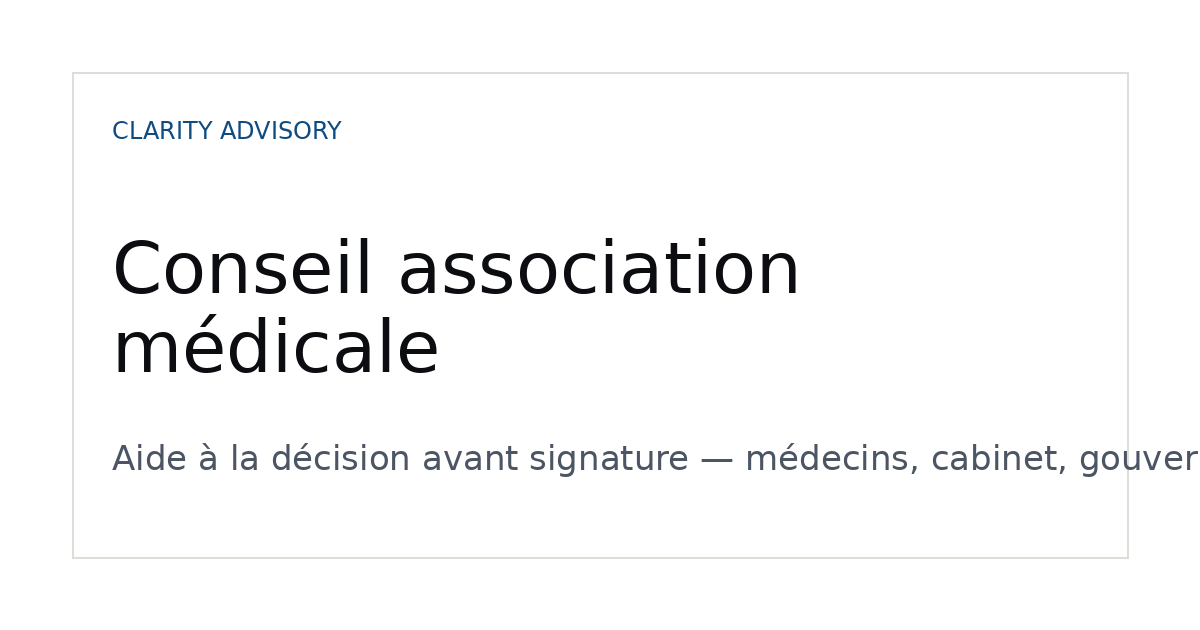
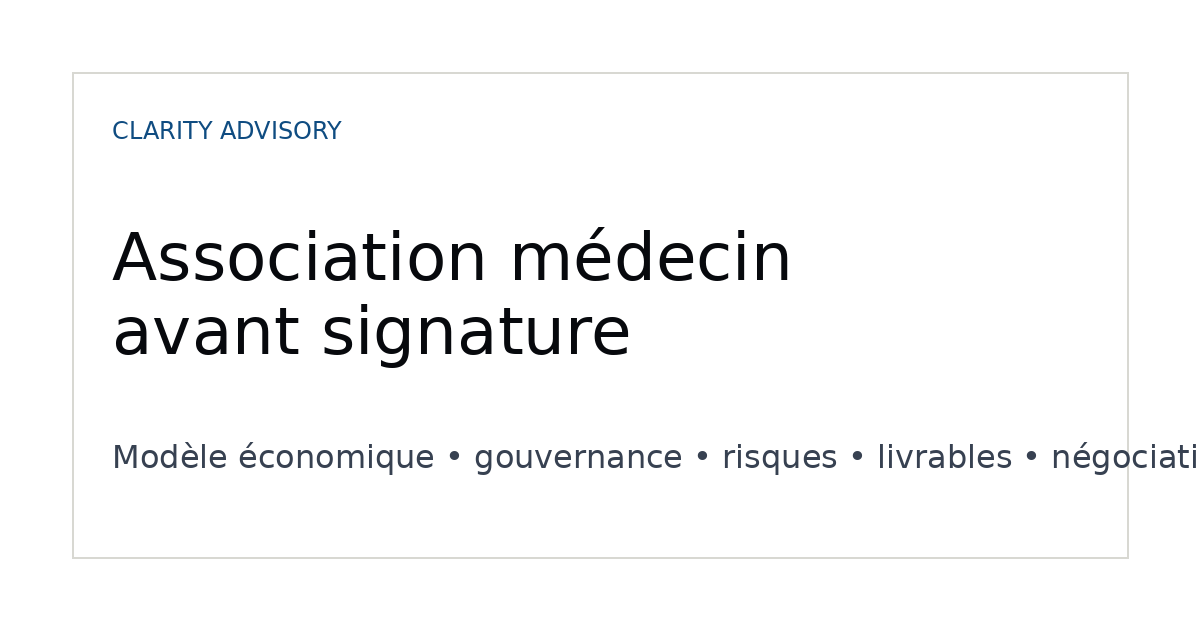
feat: clarify medical association landing page

Changed region(s): [[0.0925, 0.3619, 0.6783, 0.6032], [0.0925, 0.6937, 1.0, 0.754]]

diff --git a/index.html b/index.html
@@ -3,9 +3,9 @@
 <head>
   <meta charset="UTF-8" />
   <meta name="viewport" content="width=device-width, initial-scale=1.0" />
-  <title>Conseil association médicale | Clarity Advisory</title>
-  <meta name="description" content="Clarity Advisory aide les médecins à analyser un projet d’association médicale avant signature : modèle économique, gouvernance, rémunération, risques, négociation et questions à poser aux conseils habilités." />
-  <meta name="keywords" content="conseil association médicale, association médecin, cabinet médical association, SEL médecin, SCM médecin, SPFPL médecin, analyse cabinet médical, gouvernance cabinet médical, négociation association médicale, due diligence médicale, aide décision médecin" />
+  <title>Association médecin : conseil avant signature | Clarity Advisory</title>
+  <meta name="description" content="Conseil indépendant pour médecins avant association en cabinet, SEL, SCM ou SPFPL. Analyse du modèle économique, gouvernance, rémunération, risques, livrables clairs et préparation des négociations." />
+  <meta name="keywords" content="association médecin, conseil association médicale, médecin associé, cabinet médical association, SEL médecin, SCM médecin, SPFPL médecin, pacte associés médecins, gouvernance cabinet médical, rémunération médecin associé, due diligence cabinet médical, aide décision médecin" />
   <meta name="robots" content="index, follow, max-image-preview:large" />
   <meta name="googlebot" content="index, follow" />
   <meta name="referrer" content="strict-origin-when-cross-origin" />
@@ -21,102 +21,54 @@
   <meta property="og:locale" content="fr_FR" />
   <meta property="og:site_name" content="Clarity Advisory" />
   <meta property="og:url" content="https://clarity-advisory-site.vercel.app/" />
-  <meta property="og:title" content="Conseil association médicale | Clarity Advisory" />
-  <meta property="og:description" content="Analyse indépendante pour médecins avant association : modèle économique, gouvernance, rémunération, risques et préparation de négociation." />
-  <meta property="og:image" content="https://clarity-advisory-site.vercel.app/og-image.png?v=2" />
+  <meta property="og:title" content="Association médecin : conseil avant signature | Clarity Advisory" />
+  <meta property="og:description" content="Pour médecins : analyse indépendante avant association en cabinet, SEL, SCM ou SPFPL. Modèle économique, gouvernance, risques, livrables et négociation." />
+  <meta property="og:image" content="https://clarity-advisory-site.vercel.app/og-image.png?v=3" />
   <meta property="og:image:width" content="1200" />
   <meta property="og:image:height" content="630" />
-  <meta property="og:image:alt" content="Clarity Advisory — Conseil association médicale" />
+  <meta property="og:image:alt" content="Clarity Advisory — Association médecin avant signature" />
   <meta name="twitter:card" content="summary_large_image" />
-  <meta name="twitter:title" content="Conseil association médicale | Clarity Advisory" />
-  <meta name="twitter:description" content="Aide à la décision pour médecins avant signature d’un projet d’association médicale." />
-  <meta name="twitter:image" content="https://clarity-advisory-site.vercel.app/og-image.png?v=2" />
-  <meta name="twitter:image:alt" content="Clarity Advisory — Conseil association médicale" />
-  <meta name="geo.region" content="FR" />
-  <meta name="geo.placename" content="France" />
+  <meta name="twitter:title" content="Association médecin : conseil avant signature | Clarity Advisory" />
+  <meta name="twitter:description" content="Aide à la décision pour médecins avant association : économie, gouvernance, risques, livrables et négociation." />
+  <meta name="twitter:image" content="https://clarity-advisory-site.vercel.app/og-image.png?v=3" />
+  <meta name="twitter:image:alt" content="Clarity Advisory — Association médecin avant signature" />
   <link rel="preconnect" href="https://fonts.googleapis.com" />
   <link rel="preconnect" href="https://fonts.gstatic.com" crossorigin />
   <link href="https://fonts.googleapis.com/css2?family=DM+Sans:opsz,wght@9..40,300..900&display=swap" rel="stylesheet" />
-  <script type="application/ld+json">{
-    "@context":"https://schema.org",
-    "@type":"Organization",
-    "name":"Clarity Advisory",
-    "legalName":"THELI SASU",
-    "url":"https://clarity-advisory-site.vercel.app/",
-    "logo":"https://clarity-advisory-site.vercel.app/og-image.png?v=2",
-    "description":"Conseil stratégique et aide à la décision pour médecins avant association médicale.",
-    "knowsAbout":["Association médicale","Cabinet médical","Gouvernance médicale","Analyse économique","Négociation entre associés","SEL","SCM","SPFPL"],
-    "foundingLocation":{"@type":"Country","name":"France"}
-  }</script>
-  <script type="application/ld+json">{
-    "@context":"https://schema.org",
-    "@type":"WebSite",
-    "name":"Clarity Advisory",
-    "url":"https://clarity-advisory-site.vercel.app/",
-    "inLanguage":"fr-FR",
-    "publisher":{"@type":"Organization","name":"Clarity Advisory","url":"https://clarity-advisory-site.vercel.app/"}
-  }</script>
-  <script type="application/ld+json">{
-    "@context":"https://schema.org",
-    "@type":"ProfessionalService",
-    "name":"Clarity Advisory",
-    "url":"https://clarity-advisory-site.vercel.app/",
-    "image":"https://clarity-advisory-site.vercel.app/og-image.png?v=2",
-    "areaServed":"France",
-    "serviceType":["Conseil association médicale","Analyse économique de cabinet médical","Préparation de négociation entre associés","Aide à la décision pour médecin"],
-    "provider":{"@type":"Organization","name":"THELI SASU"},
-    "description":"Analyse stratégique, économique et opérationnelle de projets d’association médicale avant signature.",
-    "hasOfferCatalog":{"@type":"OfferCatalog","name":"Missions Clarity Advisory","itemListElement":[
-      {"@type":"Offer","itemOffered":{"@type":"Service","name":"Analyse de projet d’association médicale","description":"Analyse indépendante du modèle économique, de la gouvernance, de la rémunération et des risques avant signature."}},
-      {"@type":"Offer","itemOffered":{"@type":"Service","name":"Préparation de négociation entre futurs associés","description":"Identification des points à discuter, clarifier ou sécuriser avec les conseils habilités."}}
-    ]}
-  }</script>
-  <script type="application/ld+json">{
-    "@context":"https://schema.org",
-    "@type":"FAQPage",
-    "mainEntity":[
-      {"@type":"Question","name":"Clarity Advisory conseille-t-il uniquement les médecins ?","acceptedAnswer":{"@type":"Answer","text":"Oui. Cette offre est orientée vers les médecins qui envisagent une association en cabinet, clinique, centre de soins ou structure pluridisciplinaire."}},
-      {"@type":"Question","name":"Clarity Advisory fournit-il du conseil juridique, fiscal, comptable ou médical ?","acceptedAnswer":{"@type":"Answer","text":"Non. Clarity Advisory intervient uniquement sur les dimensions stratégiques, économiques et opérationnelles. Les sujets juridiques, fiscaux, comptables ou médicaux doivent être validés par les professionnels habilités."}},
-      {"@type":"Question","name":"Quand solliciter Clarity Advisory ?","acceptedAnswer":{"@type":"Answer","text":"Idéalement avant toute signature, dès que les premiers documents, chiffres ou conditions d’association sont disponibles."}}
-    ]
-  }</script>
+  <script type="application/ld+json">{"@context":"https://schema.org","@type":"Organization","name":"Clarity Advisory","legalName":"THELI SASU","url":"https://clarity-advisory-site.vercel.app/","logo":"https://clarity-advisory-site.vercel.app/og-image.png?v=3","description":"Conseil indépendant pour médecins avant association médicale.","knowsAbout":["Association médecin","Association médicale","Cabinet médical","SEL médecin","SCM médecin","SPFPL médecin","Gouvernance médicale","Analyse économique","Négociation entre associés"]}</script>
+  <script type="application/ld+json">{"@context":"https://schema.org","@type":"WebSite","name":"Clarity Advisory","url":"https://clarity-advisory-site.vercel.app/","inLanguage":"fr-FR","publisher":{"@type":"Organization","name":"Clarity Advisory","url":"https://clarity-advisory-site.vercel.app/"}}</script>
+  <script type="application/ld+json">{"@context":"https://schema.org","@type":"ProfessionalService","name":"Clarity Advisory","url":"https://clarity-advisory-site.vercel.app/","image":"https://clarity-advisory-site.vercel.app/og-image.png?v=3","areaServed":"France","serviceType":["Conseil association médecin","Analyse économique de cabinet médical","Préparation de négociation entre associés médecins","Aide à la décision pour médecin"],"provider":{"@type":"Organization","name":"THELI SASU"},"description":"Analyse stratégique, économique et opérationnelle de projets d’association pour médecins avant signature.","hasOfferCatalog":{"@type":"OfferCatalog","name":"Livrables Clarity Advisory","itemListElement":[{"@type":"Offer","itemOffered":{"@type":"Service","name":"Note de décision avant association médicale","description":"Synthèse claire, risques, questions à poser et recommandation finale avant signature."}},{"@type":"Offer","itemOffered":{"@type":"Service","name":"Préparation de négociation entre médecins associés","description":"Points économiques, gouvernance, rémunération, entrée progressive et clauses de sortie à clarifier."}}]}}</script>
+  <script type="application/ld+json">{"@context":"https://schema.org","@type":"FAQPage","mainEntity":[{"@type":"Question","name":"À qui s’adresse Clarity Advisory ?","acceptedAnswer":{"@type":"Answer","text":"Aux médecins qui envisagent une association en cabinet médical, SEL, SCM, SPFPL, clinique, centre de soins ou structure pluridisciplinaire."}},{"@type":"Question","name":"Quels livrables sont remis ?","acceptedAnswer":{"@type":"Answer","text":"Une note de synthèse, une cartographie des risques, les questions à poser aux conseils, des scénarios économiques, des points de négociation et une recommandation finale."}},{"@type":"Question","name":"Clarity Advisory fournit-il du conseil juridique, fiscal, comptable ou médical ?","acceptedAnswer":{"@type":"Answer","text":"Non. Clarity Advisory intervient uniquement sur les dimensions stratégiques, économiques et opérationnelles. Les sujets juridiques, fiscaux, comptables ou médicaux doivent être validés par les professionnels habilités."}}]}</script>
   <style>
-    :root{--ink:#0b0d10;--muted:#5f6673;--soft:#f7f7f5;--line:#deded8;--night:#07111f;--blue:#0f4c81;--max:1120px}
-    *{box-sizing:border-box} html{scroll-behavior:smooth} body{margin:0;font-family:'DM Sans',system-ui,-apple-system,Segoe UI,sans-serif;color:var(--ink);background:#fff;line-height:1.55;-webkit-font-smoothing:antialiased} a{color:inherit;text-decoration:none} .container{width:min(var(--max),calc(100% - 40px));margin:auto}
-    .nav{position:sticky;top:0;z-index:20;background:rgba(255,255,255,.92);backdrop-filter:blur(16px);border-bottom:1px solid var(--line)} .nav-inner{height:72px;display:flex;align-items:center;justify-content:space-between;gap:24px} .brand{font-weight:850;letter-spacing:-.03em} .brand span{display:block;font-size:12px;color:var(--muted);font-weight:700;letter-spacing:.08em;text-transform:uppercase;margin-top:2px} .links{display:flex;align-items:center;gap:26px;font-size:14px;font-weight:750;color:#30343a} .links a:hover{color:var(--blue)} .nav-cta{border:1px solid var(--ink);padding:10px 14px}
-    .hero{padding:116px 0 92px;border-bottom:1px solid var(--line)} .eyebrow{font-size:12px;text-transform:uppercase;letter-spacing:.18em;color:var(--blue);font-weight:900;margin-bottom:26px} h1{font-size:clamp(48px,8vw,104px);line-height:.95;letter-spacing:-.07em;font-weight:360;margin:0;max-width:950px} .hero p{font-size:clamp(19px,2.2vw,26px);line-height:1.45;color:#343b45;max-width:780px;margin:32px 0 0} .cta-row{display:flex;gap:12px;flex-wrap:wrap;margin-top:38px} .btn{display:inline-flex;align-items:center;justify-content:center;min-height:52px;padding:14px 20px;border:1px solid var(--ink);font-weight:850} .btn.primary{background:var(--ink);color:#fff} .btn:hover{background:var(--blue);border-color:var(--blue);color:#fff}
-    section{padding:86px 0;border-bottom:1px solid var(--line)} .section-head{display:grid;grid-template-columns:.72fr 1fr;gap:54px;align-items:start;margin-bottom:44px} h2{font-size:clamp(32px,4.5vw,56px);line-height:1.02;letter-spacing:-.055em;font-weight:420;margin:0} .lead,.problem p{font-size:20px;line-height:1.7;color:#3d4652;margin:0} .problem{max-width:920px}
-    .grid{display:grid;grid-template-columns:repeat(3,1fr);gap:0;border-top:1px solid var(--line);border-left:1px solid var(--line)} .item{padding:28px;min-height:190px;border-right:1px solid var(--line);border-bottom:1px solid var(--line)} .num{font-family:ui-monospace,SFMono-Regular,Menlo,monospace;color:var(--blue);font-size:12px;font-weight:900;letter-spacing:.1em} h3{font-size:21px;line-height:1.18;letter-spacing:-.025em;margin:28px 0 10px} .item p,.faq p{color:var(--muted);margin:0}
-    .list{display:grid;grid-template-columns:repeat(2,1fr);gap:0;border-top:1px solid var(--line);border-left:1px solid var(--line)} .list div{padding:22px 24px;border-right:1px solid var(--line);border-bottom:1px solid var(--line);font-weight:760}
-    .dark{background:var(--night);color:#fff;border:0} .dark .lead,.dark .item p,.dark p{color:#c9d3e2} .dark .grid,.dark .item{border-color:rgba(255,255,255,.16)} .dark .eyebrow{color:#9ab9dc}
-    .deliverables{grid-template-columns:repeat(2,1fr)} .role{display:grid;grid-template-columns:.55fr 1fr;gap:50px;align-items:start} .role p{font-size:20px;line-height:1.75;color:#cdd8e6;margin:0}
-    .about{display:grid;grid-template-columns:.72fr 1fr;gap:54px} .about p{font-size:20px;line-height:1.7;color:#3d4652;margin:0} .faq{display:grid;grid-template-columns:repeat(3,1fr);gap:1px;background:var(--line);border:1px solid var(--line)} .faq article{background:#fff;padding:28px;min-height:210px}
-    .contact{background:var(--soft)} .contact-box{display:grid;grid-template-columns:1fr .45fr;gap:52px;align-items:center} .contact p{font-size:21px;color:#3d4652;line-height:1.65;margin:22px 0 0} .note{font-size:13px!important;color:var(--muted)!important} footer{padding:34px 0;color:#5d6673} .footer-grid{display:flex;justify-content:space-between;gap:30px;font-size:14px} .footer-grid strong{color:var(--ink)}
-    @media(max-width:860px){.links a:not(.nav-cta){display:none} .section-head,.role,.about,.contact-box{grid-template-columns:1fr} .grid,.list,.deliverables,.faq{grid-template-columns:1fr 1fr} .hero{padding-top:86px} }
-    @media(max-width:560px){.container{width:min(var(--max),calc(100% - 28px))} .nav-cta{display:none} h1{font-size:48px} section{padding:66px 0} .grid,.list,.deliverables,.faq{grid-template-columns:1fr} .footer-grid{display:grid}}
+    :root{--ink:#07090d;--text:#111827;--muted:#374151;--soft:#f6f5f2;--line:#d8d8d2;--blue:#0f4c81;--blue-soft:#eef5fb;--green:#14532d;--max:1160px}
+    *{box-sizing:border-box} html{scroll-behavior:smooth} body{margin:0;font-family:'DM Sans',system-ui,-apple-system,Segoe UI,sans-serif;color:var(--text);background:#fff;line-height:1.6;-webkit-font-smoothing:antialiased} a{color:inherit;text-decoration:none} .container{width:min(var(--max),calc(100% - 40px));margin:auto}
+    .nav{position:sticky;top:0;z-index:20;background:rgba(255,255,255,.96);backdrop-filter:blur(14px);border-bottom:1px solid var(--line)} .nav-inner{height:72px;display:flex;align-items:center;justify-content:space-between;gap:24px} .brand{font-size:19px;font-weight:900;letter-spacing:-.035em;color:var(--ink)} .brand span{display:block;font-size:12px;color:var(--blue);font-weight:900;letter-spacing:.09em;text-transform:uppercase;margin-top:1px} .links{display:flex;align-items:center;gap:24px;font-size:14px;font-weight:800;color:#1f2937} .links a:hover{color:var(--blue)} .nav-cta{border:1px solid var(--ink);padding:10px 14px;background:#fff}
+    .hero{padding:94px 0 84px;border-bottom:1px solid var(--line);background:linear-gradient(180deg,#fff,#fbfaf7)} .hero-grid{display:grid;grid-template-columns:1.04fr .86fr;gap:56px;align-items:center} .eyebrow{font-size:12px;text-transform:uppercase;letter-spacing:.18em;color:var(--blue);font-weight:900;margin-bottom:22px} h1{font-size:clamp(46px,6.6vw,82px);line-height:.98;letter-spacing:-.065em;font-weight:420;margin:0;max-width:780px;color:var(--ink)} .hero p{font-size:clamp(20px,2.1vw,25px);line-height:1.45;color:#1f2937;max-width:760px;margin:28px 0 0} .hero-card{border:1px solid #c9d6e2;background:#fff;padding:34px;box-shadow:0 24px 80px rgba(15,76,129,.08)} .hero-card h2{font-size:28px;letter-spacing:-.04em;margin-bottom:18px} .hero-card ul{list-style:none;margin:0;padding:0;display:grid;gap:14px} .hero-card li{display:flex;gap:12px;font-weight:800;color:#111827} .hero-card li:before{content:'✓';color:var(--green);font-weight:900} .mini-note{margin-top:24px;padding-top:20px;border-top:1px solid var(--line);font-size:15px;color:var(--muted);font-weight:700}
+    .cta-row{display:flex;gap:12px;flex-wrap:wrap;margin-top:36px} .btn{display:inline-flex;align-items:center;justify-content:center;min-height:54px;padding:14px 20px;border:1px solid var(--ink);font-weight:900;background:#fff;color:var(--ink)} .btn.primary{background:var(--ink);color:#fff} .btn:hover{background:var(--blue);border-color:var(--blue);color:#fff}
+    section{padding:82px 0;border-bottom:1px solid var(--line)} .section-head{display:grid;grid-template-columns:.62fr 1fr;gap:52px;align-items:start;margin-bottom:42px} h2{font-size:clamp(32px,4.1vw,54px);line-height:1.04;letter-spacing:-.055em;font-weight:500;margin:0;color:var(--ink)} .lead,.problem p{font-size:21px;line-height:1.72;color:#1f2937;margin:0} .problem{max-width:960px}
+    .proof{display:grid;grid-template-columns:repeat(3,1fr);gap:14px;margin-top:34px} .proof div{background:var(--blue-soft);border:1px solid #d7e6f3;padding:18px;font-weight:900;color:#102a43}
+    .grid{display:grid;grid-template-columns:repeat(3,1fr);gap:0;border-top:1px solid var(--line);border-left:1px solid var(--line);background:#fff} .item{padding:30px;min-height:205px;border-right:1px solid var(--line);border-bottom:1px solid var(--line)} .num{font-family:ui-monospace,SFMono-Regular,Menlo,monospace;color:var(--blue);font-size:12px;font-weight:900;letter-spacing:.1em} h3{font-size:22px;line-height:1.2;letter-spacing:-.03em;margin:24px 0 10px;color:var(--ink)} .item p,.faq p{color:#374151;margin:0;font-size:16px;line-height:1.65}
+    .focus{background:var(--soft)} .list{display:grid;grid-template-columns:repeat(2,1fr);gap:0;border-top:1px solid var(--line);border-left:1px solid var(--line);background:#fff} .list div{padding:23px 24px;border-right:1px solid var(--line);border-bottom:1px solid var(--line);font-weight:850;color:#111827}
+    .deliverables .item{min-height:178px} .deliverables h3{margin-top:0} .deliverables .item:first-child{background:#07111f;color:#fff} .deliverables .item:first-child h3,.deliverables .item:first-child p{color:#fff}
+    .role{background:#07111f;color:#fff} .role .eyebrow{color:#9cc4ea} .role h2{color:#fff} .role-grid{display:grid;grid-template-columns:.58fr 1fr;gap:50px;align-items:start} .role p{font-size:21px;line-height:1.75;color:#eef4fb;margin:0}
+    .about{display:grid;grid-template-columns:.62fr 1fr;gap:52px} .about p{font-size:20px;line-height:1.72;color:#1f2937;margin:0} .faq{display:grid;grid-template-columns:repeat(3,1fr);gap:1px;background:var(--line);border:1px solid var(--line)} .faq article{background:#fff;padding:30px;min-height:210px}
+    .contact{background:var(--soft)} .contact-box{display:grid;grid-template-columns:1fr .45fr;gap:52px;align-items:center} .contact p{font-size:21px;color:#1f2937;line-height:1.65;margin:22px 0 0} .note{font-size:14px!important;color:#4b5563!important;font-weight:700} footer{padding:34px 0;color:#374151} .footer-grid{display:flex;justify-content:space-between;gap:30px;font-size:14px} .footer-grid strong{color:var(--ink)}
+    @media(max-width:900px){.hero-grid,.section-head,.role-grid,.about,.contact-box{grid-template-columns:1fr} .links a:not(.nav-cta){display:none} .grid,.list,.faq,.proof{grid-template-columns:1fr 1fr} .hero{padding-top:70px}}
+    @media(max-width:560px){.container{width:min(var(--max),calc(100% - 28px))} .nav-cta{display:none} h1{font-size:46px} section{padding:64px 0} .grid,.list,.faq,.proof{grid-template-columns:1fr} .hero-card{padding:24px} .footer-grid{display:grid}}
   </style>
 </head>
 <body>
-  <nav class="nav" aria-label="Navigation principale"><div class="container nav-inner"><a href="#top" class="brand">Clarity Advisory<span>Association médicale</span></a><div class="links"><a href="#approche">Approche</a><a href="#missions">Missions</a><a href="#livrables">Livrables</a><a href="#role">Notre rôle</a><a class="nav-cta" href="#contact">Planifier un échange</a></div></div></nav>
+  <nav class="nav" aria-label="Navigation principale"><div class="container nav-inner"><a href="#top" class="brand">Clarity Advisory<span>médecins & association</span></a><div class="links"><a href="#approche">Approche</a><a href="#livrables">Livrables</a><a href="#missions">Missions</a><a href="#role">Limites</a><a class="nav-cta" href="#contact">Planifier un échange</a></div></div></nav>
   <main id="top">
-    <header class="hero"><div class="container"><div class="eyebrow">Conseil association médicale</div><h1>Décidez avec clarté avant de vous associer.</h1><p>Clarity Advisory accompagne les médecins dans l’analyse d’un projet d’association : cabinet médical, groupe de praticiens, clinique, centre de soins ou structure pluridisciplinaire.</p><div class="cta-row"><a class="btn primary" href="#contact">Planifier un échange</a><a class="btn" href="#approche">Découvrir l’approche</a></div></div></header>
-    <section id="probleme"><div class="container"><div class="section-head"><div><div class="eyebrow">Problème</div><h2>Avant de signer, il faut comprendre.</h2></div><div class="problem"><p>S’associer dans un cabinet médical ou une structure de soins engage souvent plusieurs années de carrière, de revenus, de responsabilités et d’équilibre professionnel. La décision ne doit pas reposer uniquement sur une lecture juridique des documents : elle doit aussi intégrer le modèle économique, la gouvernance, l’organisation et les risques opérationnels.</p></div></div></div></section>
-    <section id="approche"><div class="container"><div class="section-head"><div><div class="eyebrow">Ce que nous faisons</div><h2>Un regard indépendant sur votre décision.</h2></div><p class="lead">Nous clarifions les enjeux concrets derrière un projet d’association médicale : revenus, charges, patientèle, gouvernance, rythme de travail, investissements du cabinet, clauses économiques et équilibre entre associés.</p></div><div class="grid">
-      <article class="item"><span class="num">01</span><h3>Analyse du projet d’association</h3><p>Évaluer l’intérêt réel de rejoindre ou de créer une association médicale, au-delà de la première impression.</p></article>
-      <article class="item"><span class="num">02</span><h3>Lecture stratégique du projet</h3><p>Lire statuts, pactes, propositions et données sous l’angle économique, organisationnel et de gouvernance.</p></article>
-      <article class="item"><span class="num">03</span><h3>Analyse économique du cabinet</h3><p>Comprendre honoraires, charges, rétrocessions, investissements à prévoir, rémunération cible et scénarios de revenu.</p></article>
-      <article class="item"><span class="num">04</span><h3>Points de vigilance</h3><p>Identifier les zones floues : patientèle, répartition du travail, décisions collectives, départ d’un associé.</p></article>
-      <article class="item"><span class="num">05</span><h3>Préparation des négociations</h3><p>Préparer les sujets à discuter avant signature : valorisation, entrée progressive, gouvernance, rémunération, sortie.</p></article>
-      <article class="item"><span class="num">06</span><h3>Synthèse avant signature</h3><p>Produire une lecture claire pour avancer, renégocier, demander des compléments ou renoncer.</p></article>
-    </div></div></section>
-    <section id="missions"><div class="container"><div class="section-head"><div><div class="eyebrow">Missions types</div><h2>Association médicale : nos missions</h2></div><p class="lead">Des interventions ciblées avant signature, pour comprendre les conditions réelles d’une association médicale.</p></div><div class="list"><div>Association dans un cabinet médical</div><div>Entrée comme associé dans une SEL, SCM, SPFPL ou structure existante</div><div>Association avec intégration progressive de patientèle ou de parts</div><div>Création d’une structure commune entre praticiens</div><div>Due diligence stratégique légère avant association</div><div>Préparation d’une négociation entre futurs associés</div></div></div></section>
-    <section class="dark"><div class="container"><div class="section-head"><div><div class="eyebrow">Méthode</div><h2>Une approche structurée en 4 étapes</h2></div><p class="lead">Un cadre simple pour passer d’une opportunité séduisante à une décision médicale, économique et personnelle argumentée.</p></div><div class="grid"><article class="item"><span class="num">01</span><h3>Cadrage</h3><p>Clarifier votre situation, vos objectifs de carrière, vos contraintes personnelles et les conditions proposées.</p></article><article class="item"><span class="num">02</span><h3>Analyse</h3><p>Examiner les documents transmis, les chiffres d’activité, les charges, la rémunération et le fonctionnement du cabinet.</p></article><article class="item"><span class="num">03</span><h3>Vigilance</h3><p>Prioriser les risques : gouvernance, rythme de travail, charges, investissements, départ d’associé, désaccords futurs.</p></article><article class="item"><span class="num">04</span><h3>Restitution</h3><p>Présenter les conclusions, scénarios de décision et questions à poser avant toute signature.</p></article></div></div></section>
-    <section id="livrables"><div class="container"><div class="section-head"><div><div class="eyebrow">Livrables</div><h2>Des livrables concrets</h2></div><p class="lead">Des documents pensés pour décider, négocier et dialoguer efficacement avec vos avocats, experts-comptables et conseils spécialisés.</p></div><div class="grid deliverables"><article class="item"><h3>Note de synthèse</h3><p>Une vision courte et structurée de l’opportunité d’association.</p></article><article class="item"><h3>Cartographie des risques</h3><p>Risques économiques, organisationnels, relationnels et de gouvernance entre associés.</p></article><article class="item"><h3>Questions à poser aux conseils</h3><p>Points à valider avec avocats, experts-comptables, notaires ou conseils spécialisés du secteur médical.</p></article><article class="item"><h3>Scénarios économiques</h3><p>Hypothèses de revenus, charges, rémunération, rythme d’activité et conséquences possibles.</p></article><article class="item"><h3>Points de négociation</h3><p>Sujets à arbitrer, clarifier ou sécuriser avant signature des documents d’association.</p></article><article class="item"><h3>Recommandation finale</h3><p>Une position claire pour s’associer, renégocier, demander des compléments ou renoncer.</p></article></div></div></section>
-    <section id="role" class="dark"><div class="container role"><div><div class="eyebrow">Notre rôle</div><h2>Un conseil stratégique, pas juridique.</h2></div><p>Clarity Advisory intervient exclusivement sur les dimensions stratégiques, économiques et opérationnelles d’un projet d’association médicale. Nous ne fournissons pas de consultation juridique, fiscale, comptable ou médicale. Ces sujets doivent être validés par les professionnels habilités : avocats, experts-comptables, notaires, conseils spécialisés ou instances ordinales compétentes.</p></div></section>
-    <section id="a-propos"><div class="container about"><div><div class="eyebrow">À propos</div><h2>Clarity Advisory</h2></div><p>Clarity Advisory est une activité de conseil portée par THELI SASU. Elle s’appuie sur une expérience entrepreneuriale, commerciale et data pour aider les médecins à analyser une opportunité d’association avec méthode, recul et pragmatisme.</p></div></section>
-    <section id="faq"><div class="container"><div class="section-head"><div><div class="eyebrow">FAQ</div><h2>Questions fréquentes</h2></div><p class="lead">Trois points essentiels avant de solliciter un accompagnement.</p></div><div class="faq"><article><h3>Pour qui ?</h3><p>Pour les médecins qui envisagent une association en cabinet, clinique, centre de soins ou structure pluridisciplinaire.</p></article><article><h3>À quel moment ?</h3><p>Avant signature, dès que les premiers documents, chiffres ou conditions d’association sont disponibles.</p></article><article><h3>Quelle limite ?</h3><p>Clarity Advisory ne remplace pas vos avocats, experts-comptables, notaires, conseils spécialisés ou instances ordinales.</p></article></div></div></section>
-    <section id="contact" class="contact"><div class="container contact-box"><div><div class="eyebrow">Contact</div><h2>Vous envisagez de vous associer ?</h2><p>Prenons 30 minutes pour comprendre le projet d’association, les documents disponibles et les points à clarifier avant de vous engager.</p><p class="note">Remplacez ce CTA par votre lien Calendly ou votre adresse email de contact.</p></div><div><a class="btn primary" href="mailto:?subject=Projet%20d'association%20m%C3%A9dicale%20-%20Clarity%20Advisory">Planifier un échange</a></div></div></section>
+    <header class="hero"><div class="container hero-grid"><div><div class="eyebrow">Conseil indépendant pour médecins</div><h1>Avant de vous associer, clarifiez les chiffres, les risques et les règles du jeu.</h1><p>Clarity Advisory aide les médecins à analyser un projet d’association en cabinet, SEL, SCM, SPFPL, clinique ou structure de soins — avant signature.</p><div class="cta-row"><a class="btn primary" href="#contact">Planifier un échange</a><a class="btn" href="#livrables">Voir les livrables</a></div><div class="proof"><div>100% orienté médecins</div><div>Avant signature</div><div>Décision claire</div></div></div><aside class="hero-card" aria-label="Ce que vous obtenez"><div class="eyebrow">Ce que vous obtenez</div><h2>Une note de décision claire pour savoir si vous devez avancer, renégocier ou renoncer.</h2><ul><li>Analyse du modèle économique du cabinet</li><li>Lecture des conditions d’association</li><li>Risques de gouvernance et d’organisation</li><li>Points de négociation avant signature</li><li>Questions à poser à l’avocat et à l’expert-comptable</li></ul><div class="mini-note">Positionnement : stratégie, économie, opérationnel. Pas de conseil juridique, fiscal, comptable ou médical.</div></aside></div></header>
+    <section id="probleme"><div class="container"><div class="section-head"><div><div class="eyebrow">Le problème</div><h2>Une association médicale ne se résume pas aux statuts.</h2></div><div class="problem"><p>Le contrat peut être juridiquement propre, mais la décision reste fragile si le médecin ne comprend pas clairement la rémunération, les charges, la patientèle, la gouvernance, les investissements futurs, le rythme de travail et les conditions de sortie.</p></div></div></div></section>
+    <section id="approche" class="focus"><div class="container"><div class="section-head"><div><div class="eyebrow">Approche</div><h2>Nous traduisons le projet d’association en décision concrète.</h2></div><p class="lead">L’objectif est simple : vous donner une vision lisible des enjeux économiques, humains et opérationnels avant de vous engager comme associé.</p></div><div class="grid"><article class="item"><span class="num">01</span><h3>Modèle économique</h3><p>Honoraires, charges, rétrocessions, rémunération attendue, investissements, dépendances et scénarios de revenu.</p></article><article class="item"><span class="num">02</span><h3>Gouvernance</h3><p>Décisions collectives, pouvoirs réels, règles de vote, rôle de chaque associé et sujets à cadrer.</p></article><article class="item"><span class="num">03</span><h3>Organisation du cabinet</h3><p>Répartition du travail, patientèle, planning, moyens humains, matériel, locaux et contraintes opérationnelles.</p></article><article class="item"><span class="num">04</span><h3>Risques</h3><p>Zones floues, déséquilibres, dépendances, investissements futurs, désaccords possibles et conditions de sortie.</p></article><article class="item"><span class="num">05</span><h3>Négociation</h3><p>Points à clarifier ou renégocier avant signature : valorisation, entrée progressive, rémunération, gouvernance, sortie.</p></article><article class="item"><span class="num">06</span><h3>Décision</h3><p>Une recommandation opérationnelle : avancer, demander des compléments, renégocier ou renoncer.</p></article></div></div></section>
+    <section id="livrables"><div class="container"><div class="section-head"><div><div class="eyebrow">Livrables</div><h2>Ce que vous recevez concrètement.</h2></div><p class="lead">Chaque mission se termine par des supports lisibles, exploitables dans vos échanges avec les futurs associés et vos conseils habilités.</p></div><div class="grid deliverables"><article class="item"><h3>1. Note de décision</h3><p>Synthèse courte : contexte, opportunité, risques, scénarios, recommandation finale.</p></article><article class="item"><h3>2. Cartographie des risques</h3><p>Risques économiques, organisationnels, relationnels, de gouvernance et de sortie.</p></article><article class="item"><h3>3. Questions à poser</h3><p>Liste structurée pour votre avocat, expert-comptable, notaire ou conseil spécialisé.</p></article><article class="item"><h3>4. Scénarios économiques</h3><p>Hypothèses de revenus, charges, rémunération, investissements et points de sensibilité.</p></article><article class="item"><h3>5. Points de négociation</h3><p>Sujets à clarifier avant signature : valorisation, entrée, rémunération, gouvernance, clauses de sortie.</p></article><article class="item"><h3>6. Recommandation</h3><p>Une position claire : s’associer, renégocier, demander des compléments ou renoncer.</p></article></div></div></section>
+    <section id="missions" class="focus"><div class="container"><div class="section-head"><div><div class="eyebrow">Missions</div><h2>Cas d’usage pour médecins.</h2></div><p class="lead">L’intervention est conçue pour les décisions d’association, pas pour l’investissement général ou le conseil juridique.</p></div><div class="list"><div>Association dans un cabinet médical existant</div><div>Entrée comme associé dans une SEL, SCM ou SPFPL</div><div>Association en clinique, centre de soins ou structure pluridisciplinaire</div><div>Intégration progressive de patientèle ou de parts</div><div>Création d’une structure commune entre praticiens</div><div>Négociation entre futurs médecins associés</div></div></div></section>
+    <section class="role" id="role"><div class="container role-grid"><div><div class="eyebrow">Notre rôle</div><h2>Clarity Advisory ne remplace pas vos conseils habilités.</h2></div><p>Nous intervenons exclusivement sur les dimensions stratégiques, économiques et opérationnelles d’un projet d’association médicale. Nous ne fournissons pas de consultation juridique, fiscale, comptable ou médicale. Ces sujets doivent être validés par les professionnels habilités : avocats, experts-comptables, notaires, conseils spécialisés ou instances ordinales compétentes.</p></div></section>
+    <section id="faq"><div class="container"><div class="section-head"><div><div class="eyebrow">FAQ</div><h2>Questions fréquentes</h2></div><p class="lead">Pour savoir rapidement si l’accompagnement correspond à votre situation.</p></div><div class="faq"><article><h3>Pour qui ?</h3><p>Pour les médecins qui envisagent une association en cabinet, SEL, SCM, SPFPL, clinique ou centre de soins.</p></article><article><h3>Quand intervenir ?</h3><p>Avant signature, dès que vous disposez de premiers documents, chiffres ou conditions d’association.</p></article><article><h3>Quel résultat ?</h3><p>Une synthèse claire, des points de vigilance, des questions à poser et une recommandation de décision.</p></article></div></div></section>
+    <section id="contact" class="contact"><div class="container contact-box"><div><div class="eyebrow">Contact</div><h2>Vous envisagez de vous associer ?</h2><p>Prenons 30 minutes pour comprendre le projet, les documents disponibles et les points à clarifier avant de vous engager.</p><p class="note">Remplacez ce CTA par votre lien Calendly ou votre adresse email de contact.</p></div><div><a class="btn primary" href="mailto:?subject=Projet%20d'association%20m%C3%A9dicale%20-%20Clarity%20Advisory">Planifier un échange</a></div></div></section>
   </main>
-  <footer><div class="container footer-grid"><div><strong>Clarity Advisory</strong> — une activité de THELI SASU</div><div>Association médicale & aide à la décision. Pas de conseil juridique, fiscal, comptable ou médical.</div></div></footer>
+  <footer><div class="container footer-grid"><div><strong>Clarity Advisory</strong> — une activité de THELI SASU</div><div>Médecins & association. Pas de conseil juridique, fiscal, comptable ou médical.</div></div></footer>
 </body>
 </html>